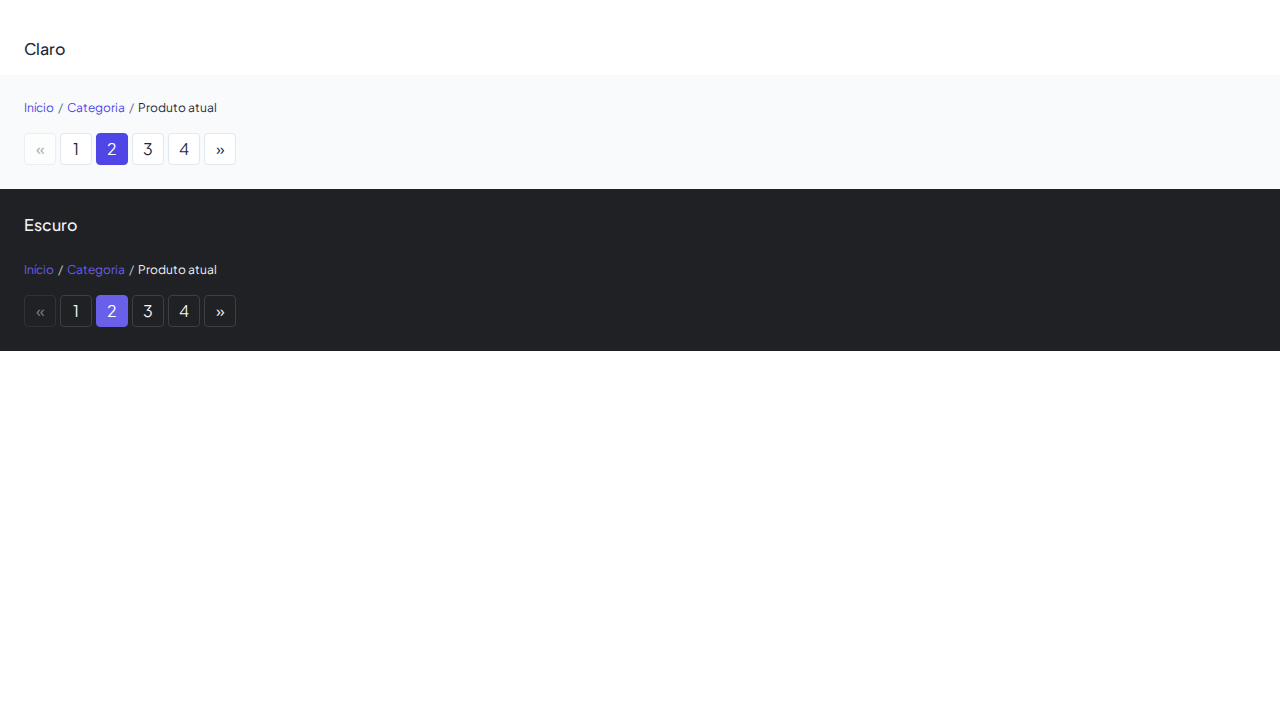
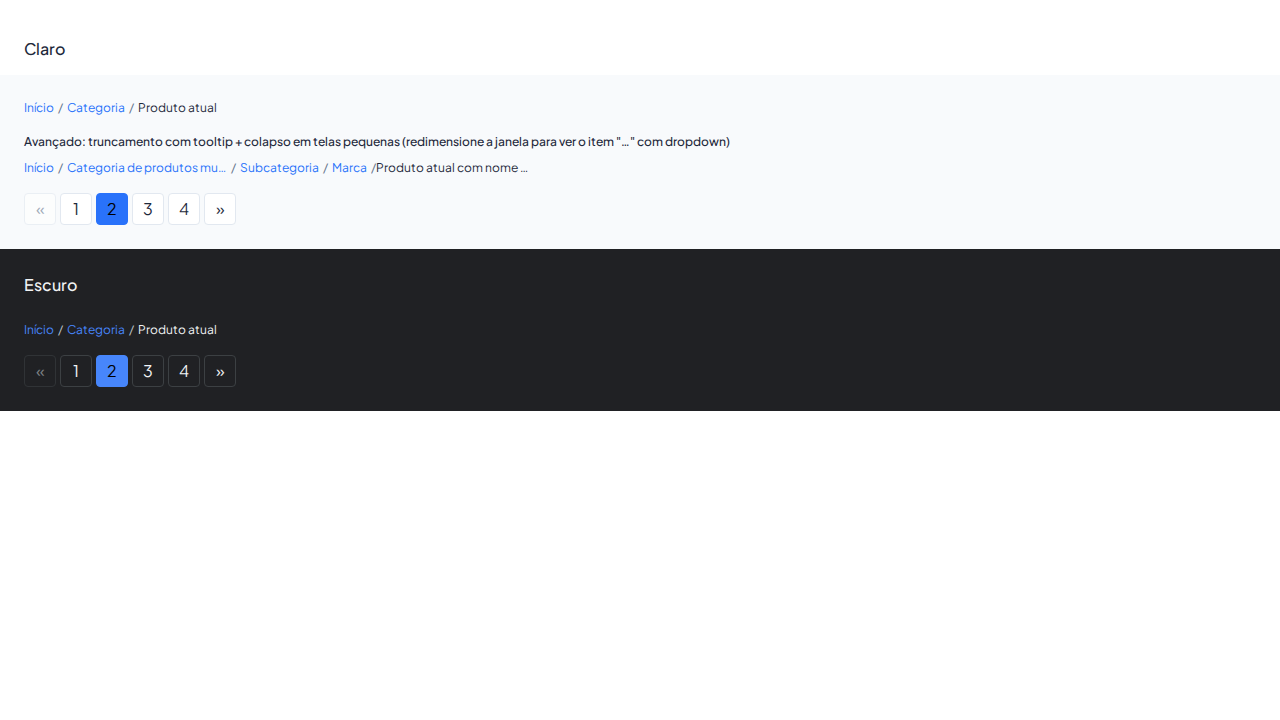
Corrige metadados npm (Bundlephobia), corrida no onClickOutside e baselines visuais
- package.json: adiciona o campo "main" (dist/css/clarus.css) e expõe
  "./package.json" no mapa de exports — sem eles o Bundlephobia não consegue
  resolver o entry point nem ler o package.json do pacote publicado, e o badge
  de bundle size do README fica quebrado. Adiciona também "unpkg"/"jsdelivr"
  apontando para o build minificado (URL padrão dos CDNs) e inclui os plugins
  JS em "sideEffects": js/*.js executam autoInit() na importação e dist/js/*.js
  são IIFEs, então declarar só CSS fazia bundlers removê-los no tree-shaking
  (import "clarus-css/js" virava no-op).

- js/core/overlay.js: registra o listener de onClickOutside imediatamente em
  vez de adiar com setTimeout. Como o listener é de captura, o clique que abriu
  o overlay (ainda em bubbling) nunca o aciona — o adiamento só criava uma
  janela em que um clique fora logo após a abertura era perdido e o dropdown/
  popover/modal/offcanvas ficava aberto (flake reproduzido em ~1 a cada 4
  execuções do teste "Dropdown fecha ao clicar fora do menu"). Testes de
  overlay atualizados para o contrato real: registro durante o dispatch não
  fecha; o primeiro clique fora seguinte fecha sem esperar outro tick.

- tests/visual: comita os 12 baselines que nunca entraram no git (páginas das
  Etapas 5 a 9: alert-dialog, collapse, divider, empty-state, file-drop,
  hover-card, input-group, rating, segmented-control, skeletons, tag e
  timeline) — sem eles o CI falha com "snapshot doesn't exist" em toda
[…]

Changed region(s): [[0.0, 0.1833, 1.0, 0.5806]]

diff --git a/tests/unit/core/overlay.test.js b/tests/unit/core/overlay.test.js
@@ -47,40 +47,39 @@ describe("onClickOutside", () => {
     document.body.innerHTML = "";
   });
 
-  it("não dispara no clique síncrono que abriu o elemento", () => {
+  it("não dispara para o clique que abriu o elemento (registro durante o dispatch)", () => {
     const callback = vi.fn();
-    onClickOutside(el, callback);
+    const trigger = document.createElement("button");
+    document.body.appendChild(trigger);
+    trigger.addEventListener("click", () => onClickOutside(el, callback));
 
-    document.body.click();
+    trigger.click();
 
     expect(callback).not.toHaveBeenCalled();
   });
 
-  it("dispara o callback ao clicar fora do elemento, após o tick de proteção", async () => {
+  it("dispara o callback já no primeiro clique fora após o registro, sem esperar outro tick", () => {
     const callback = vi.fn();
     onClickOutside(el, callback);
 
-    await new Promise((resolve) => setTimeout(resolve, 0));
     document.body.click();
 
     expect(callback).toHaveBeenCalledTimes(1);
   });
 
-  it("não dispara o callback ao clicar dentro do elemento", async () => {
+  it("não dispara o callback ao clicar dentro do elemento", () => {
     const callback = vi.fn();
     onClickOutside(el, callback);
 
-    await new Promise((resolve) => setTimeout(resolve, 0));
     el.click();
 
     expect(callback).not.toHaveBeenCalled();
   });
 
-  it("a função de limpeza remove o listener", async () => {
+  it("a função de limpeza remove o listener", () => {
     const callback = vi.fn();
     const cleanup = onClickOutside(el, callback);
 
-    await new Promise((resolve) => setTimeout(resolve, 0));
     cleanup();
     document.body.click();
 

diff --git a/js/core/overlay.js b/js/core/overlay.js
@@ -31,12 +31,13 @@ export function onClickOutside(el, callback) {
     if (!el.contains(event.target)) callback(event);
   };
 
-  // Adiado para o próximo tick: evita que o mesmo clique que abriu o
-  // elemento (ainda em bubbling até o document) já dispare o fechamento.
-  const timerId = setTimeout(() => document.addEventListener("click", handler, true));
+  // Listener de captura registrado imediatamente: o clique que abriu o
+  // elemento já passou pelo document na fase de captura, então não dispara
+  // o fechamento — e um clique fora logo em seguida já encontra o listener
+  // ativo (adiar com setTimeout criava uma janela em que ele era perdido).
+  document.addEventListener("click", handler, true);
 
   return () => {
-    clearTimeout(timerId);
     document.removeEventListener("click", handler, true);
   };
 }